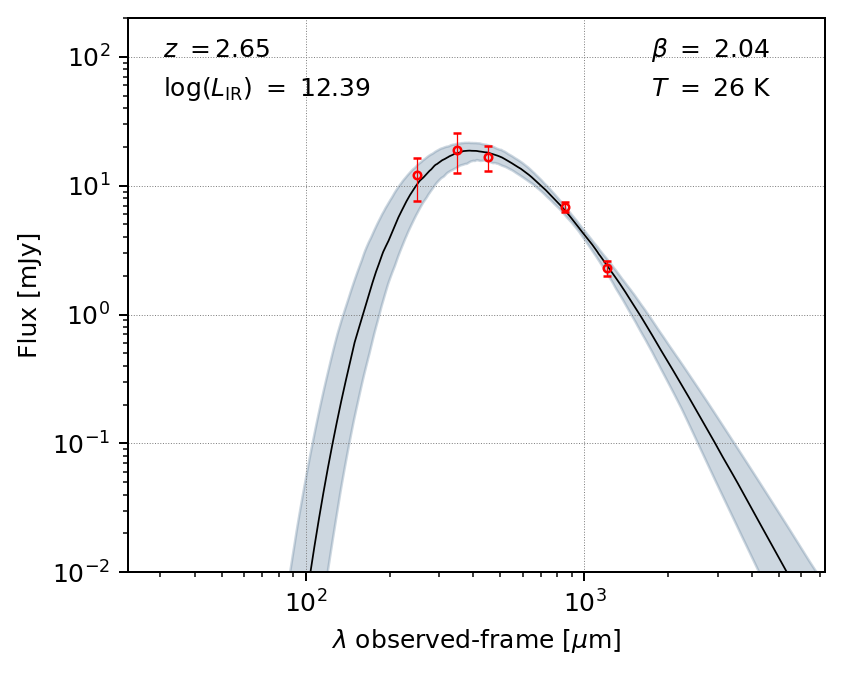
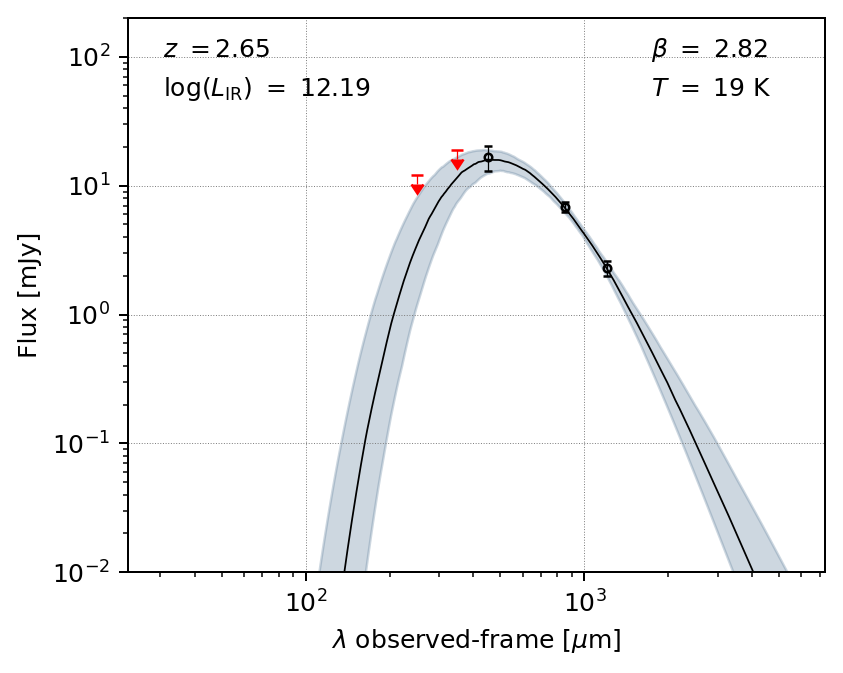
update quickstart

diff --git a/docs/quickstart.rst b/docs/quickstart.rst
@@ -25,7 +25,7 @@ Here we have chosen an optically thin model with no mid-infrared power law. A qu
     plt.show()
 
 .. image:: images/ex_plt_1a.png
-   :width: 350px
+   :width: 380px
 
 Alternatively, we could choose, say, a general opacity model with the power law included (default power-law slope ``alpha=2.0`` and turnover wavelength ``l0=200`` microns):
 
@@ -36,7 +36,7 @@ Alternatively, we could choose, say, a general opacity model with the power law 
     plt.show()
 
 .. image:: images/ex_plt_1b.png
-   :width: 350px
+   :width: 380px
 
 
 The above model follows `Casey (2012) <https://doi.org/10.1111/j.1365-2966.2012.21455.x>`_, where the power law is joined at 3/4 the wavelength where the slope equals ``alpha``. 
@@ -49,7 +49,7 @@ If you prefer a piecewise power law connected where the slope of the blackbody m
     plt.show()
 
 .. image:: images/ex_plt_1c.png
-   :width: 350px
+   :width: 380px
 
 
 Fitting photometric data
@@ -57,30 +57,31 @@ Fitting photometric data
 
 Most often, you want to fit a given model to photometric data points. ``mbb`` allows for Bayesian model fitting via the ``fit()`` method, which uses the ``emcee`` package to perform Markov Chain Monte Carlo (MCMC) sampling of the parameter space:
 
+Note: ``mbb`` handles upper limits correctly in the Bayesian likelihood function. To specify which data should be treated as upper limits, pass a boolean array to the ``uplims``  keyword of ``fit()``. 
+The code assumes that, for each photometric band labeled as an upper limit, the flux value should be used as the limit (accounting for the $1\sigma$ uncertainty as well) if it is positive and larger than the $1\sigma$ error, otherwise this error is used as the limit. 
+
 .. code-block:: python
 
-    phot = (
-        [250, 350, 450, 850, 1200], # wavelength in microns
-        [0.012, 0.019, 0.0166, 0.00683, 0.0023], # flux in Jy
-        [0.0044, 0.0064, 0.0036, 0.00057, 0.0003]  # error in Jy
-        )
-    result = m.fit(phot=phot, niter=500, params=['L', 'T', 'beta'], restframe=False)
+    import numpy as np
+    phot = np.array(
+	    [[250, 350, 450, 850, 1200], # wavelength in microns
+	     [0.012, 0.019, 0.0166, 0.00683, 0.0023], # flux in Jy
+	     [0.0044, 0.0064, 0.0036, 0.00057, 0.0003]]  # error in Jy
+	    )
+	uplims=phot[1]/phot[2] < 3.0 # upper limit if not detected at >= 3-sigma
+	result = m.fit(phot=phot, uplims=uplims, niter=1000, params=['L', 'T', 'beta'], restframe=False)
 
 .. code-block::
 
     Running burn-in...
-    100%|█████████████████████████████████████████| 300/300 [00:07<00:00, 38.87it/s]
+    100%|█████████████████████████████████████| 1000/1000 [00:35<00:00, 27.80it/s]
     Running fitter...
-    100%|█████████████████████████████████████████| 500/500 [00:12<00:00, 41.62it/s]
-    Done 
-
+    100%|█████████████████████████████████████| 1000/1000 [00:37<00:00, 26.34it/s]
+    Done
 
 
 You specify which parameters to fit using the ``params`` keyword argument; the options are ``L``, ``T``, ``beta``, ``alpha``, ``l0``, or ``z`` (the latter if you want to use ``mbb`` as a far-infrared photometric redshift code).
 The parameter values used to initialize the ``ModifiedBlackbody`` are also used by ``emcee`` as the starting parameters of the fit.
-
-Note: ``mbb`` handles upper limits correctly in the Bayesian likelihood function. To specify which data should be treated as upper limits, pass a boolean array to the ``uplims``  keyword of ``fit()``. 
-The code assumes that, for each photometric band labeled as an upper limit, the flux value should be used as the limit (accounting for the $1\sigma$ uncertainty as well) if it is positive and larger than the $1\sigma$ error, otherwise this error is used as the limit. 
 
 View the resulting model after the fit, with uncertainties:
 
@@ -91,7 +92,7 @@ View the resulting model after the fit, with uncertainties:
 
 
 .. image:: images/ex_plt_2.png
-   :width: 350px
+   :width: 380px
 
 
 You can also make a simple corner plot of the parameters that were varied:
@@ -120,16 +121,17 @@ Each key of ``priors`` should be the name of a parameter, and each value is eith
 
 .. code-block:: python
 
-    result = m.fit(phot=phot, niter=500, params=['L', 'T', 'beta'], 
+    result = m.fit(phot=phot, niter=1000, params=['L', 'T', 'beta'], 
         restframe=False, priors = {'beta':dict(mu=1.8,sigma=0.3)})
 
 .. code-block::
 
     Running burn-in...
-    100%|█████████████████████████████████████████| 300/300 [00:07<00:00, 38.87it/s]
+    100%|█████████████████████████████████████| 1000/1000 [00:36<00:00, 27.32it/s]
     Running fitter...
-    100%|█████████████████████████████████████████| 500/500 [00:12<00:00, 41.62it/s]
-    Done 
+    100%|█████████████████████████████████████| 1000/1000 [00:36<00:00, 27.20it/s]
+    Done
+
 
 
 Accessing the fit results
@@ -143,7 +145,7 @@ To access the percentiles of the posterior distribition for any parameter in the
 
 .. code-block:: python
     
-    [1.56834795 1.83519843 2.10055382]
+    [1.63739978 1.90546219 2.17945187]
 
 To get the reduced chi-squared value from the fit_result:
 
@@ -154,7 +156,7 @@ To get the reduced chi-squared value from the fit_result:
 
 .. code-block:: python
     
-    0.8697752576488373
+    0.8526608373363864
 
 
 Currently, the measurement for ``L`` requires integration under the hood, so it can take a long time. The same applies for generating the corner plots. I'm working on speeding this process up.
@@ -172,7 +174,7 @@ To clear the ``fit_result`` and priors, use ``reset()``. Note that the parameter
 
 .. code-block:: python
     
-    1.84
+    1.91
 
 
 Other utility functions
@@ -191,7 +193,7 @@ Flux at a given wavelength:
 
 .. code-block:: python
     
-    0.002494547015269406 Jy
+    0.0024958420867594506 Jy
 
 .. code-block:: python
     
@@ -202,7 +204,7 @@ Flux at a given wavelength:
 
 .. code-block:: python
     
-    18.869 mJy
+    18.438 mJy
 
 Infrared luminosity:
 ^^^^^^^^^^^^^^^^^^^^
@@ -215,9 +217,9 @@ Infrared luminosity:
 
 .. code-block::
     
-    2604054668115.043 solLum
-    12.42
-    12.42
+    2499320878862.3975 solLum
+    12.40
+    12.40
 
 
 
